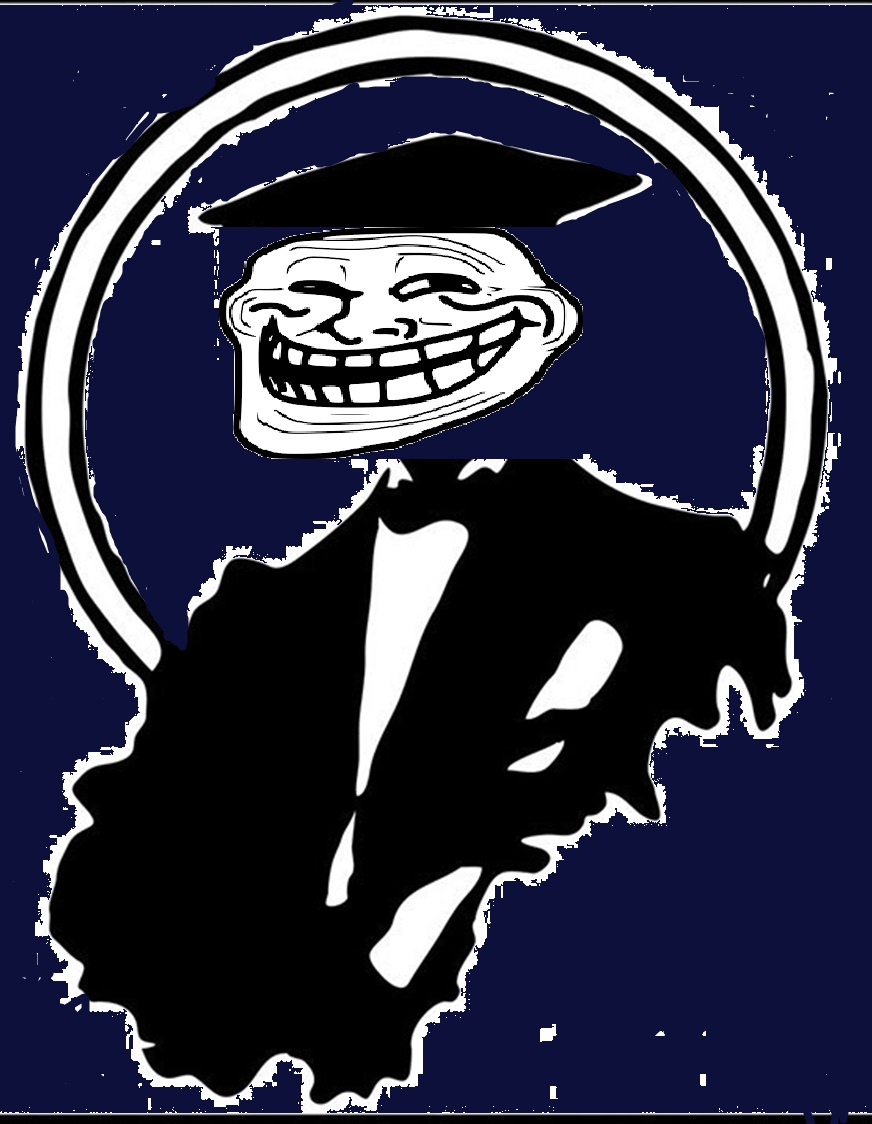
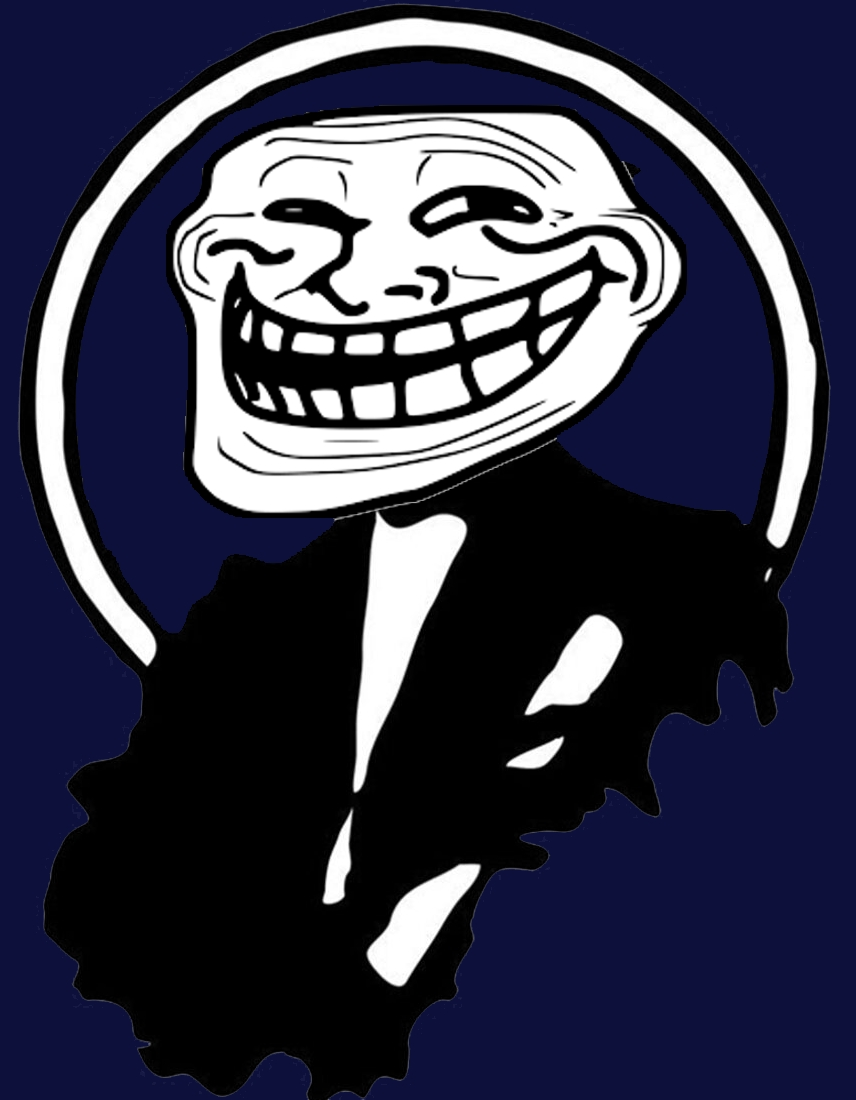
Add files via upload

Changed region(s): [[0.0, 0.0, 1.0, 1.0], [0.5771, 0.5255, 0.729, 0.7109], [0.6075, 0.8964, 0.6379, 0.9273]]

diff --git a/index.html b/index.html
@@ -10,64 +10,106 @@
       <title>Home - Lessons in Memeology</title>
       <style>
 			body{
-				background-color:gray;
+				background-color:rgb(255, 255, 255);
 			}
 			#header{
 				
                 background-color:rgb(12, 16, 59);
                 color:white;
                 font-size:90%;
-                text-align:center;	
-                vertical-align: middle;
 				padding-top:1%;
 				padding-bottom:1%;
                 height:auto;
             }
+			.navbar {
+				padding:0px;
+				padding-bottom:10%;
+			}
 			h1{
-				padding-right:5%;
+				padding-left:5%;
 			}
 			h2 {
-				background-color:#c03cde;
+				background-color:#8679ff;
+				padding:0px;
+				margin:0px;
+			} 
+
+			.nav-link{
+				color: white;
+				font-size:150%;
 			}
-            #Title {
-                font-family: cursive;
-                display: block;
-                color: white;
-                text-align: center;
-                text-decoration: none;
-                font-size: 100%;
-            }
-			
-			.container{
-				background-color:white;
-				
+			.container, .row{
+				background-color:rgb(255, 235, 181);
+				border:5px solid black;
+
+
 			}
 			.row {
 				text-align:center;
+			}
+			.col-sm-6{
+				border:5px solid black;
+
+			}
+			.col-sm-12 {
+				padding-top:1%;
+				border-bottom:5px solid black;
 			}
       </style>
   </head>
       
   <body>
-		<div class="jumbotron text-center" id="header">
-		  <h1> <img src="LIMC.jpg" width = 140px> Lessons In Memeology </h1>
-		  <p>Educating the uncultured one meme at a time!</p>
+	<nav class="navbar navbar-expand-lg">
+		<div class="container-fluid" id = "header">
+		  <h1 style="padding-right:5%;" > <img src="LIMC.jpg" width = 140px> Lessons In Memeology </h1>
+		  <div class="collapse navbar-collapse" id="navbarSupportedContent">
+
+			<ul class="navbar-nav me-auto mb-2 mb-lg-0">
+				<li class="nav-item">
+					<a class="nav-link" href="index.html">Home</a>
+				</li>
+				<li class="nav-item">
+				<a class="nav-link" href="Featured.html">Popular</a>
+				</li>
+				<li class="nav-item">
+				<a class="nav-link" href="Trash.html">Trashposting</a>
+				</li>
+		
+			</ul>
 		</div>
-	  <div class="container bg-white text-black">
+	</nav>
+	  <div class="container-fluid bg-white text-black">
 
 	  <div class="row">
 	
+		<h2> ~ Memes ~</h2>
 		<div class="col-sm-12">
-			<h2> Recent Popular Memes </h2>
-		</div>
+			<h3>Brief definition of memes</h3>
+			<p style = "margin-left: 10%;margin-right:10%;">The Urban Dictionary defines memes as: 
+				"Popular quotes, images, and real people, which are copied, imitated, and spread all over the internet(s)!"
+				memes are usually humorous and/or employs irony or sarcasm to deliver a message, the 
+				purpose and topics of the memes can be relatable, funny, irrelevant, political, almost any 
+				topic you can think of; it is a form of sharing and connecting.
+			</p>
+		  </div>
+		<div class="col-sm-12">
+			<h3>Brief history on memes</h3>
+			<p style = "margin-left: 10%;margin-right:10%;">Memes have been around for a long time now, 
+				the earliest meme found has been recorded to be 1921;
+				though its prominence exploded when the internet became
+				available to the public, and where information was easily
+				shared and accessed all over the globe.
+			</p>
+		  </div>
+		  <div class="col-sm-6">
+			<img src="first.webp" width="700px">
+			<p>What might be the first meme, 1921</p>
+		  </div>
 		<div class="col-sm-6">
-		  <h3>Column 1</h3>
-		  <p>Lorem ipsum dolor..</p>
+			<img src="trollface.webp" width="480px">
+		  <p>A famous image depicting a face after doing miniscule amounts of tomfoolery, or "trolling"</p>
 		</div>
-		<div class="col-sm-6">
-		  <h3>Column 2</h3>
-		  <p>Lorem ipsum dolor..</p>
-		</div>
+
 
 	  </div>
 	</div>
